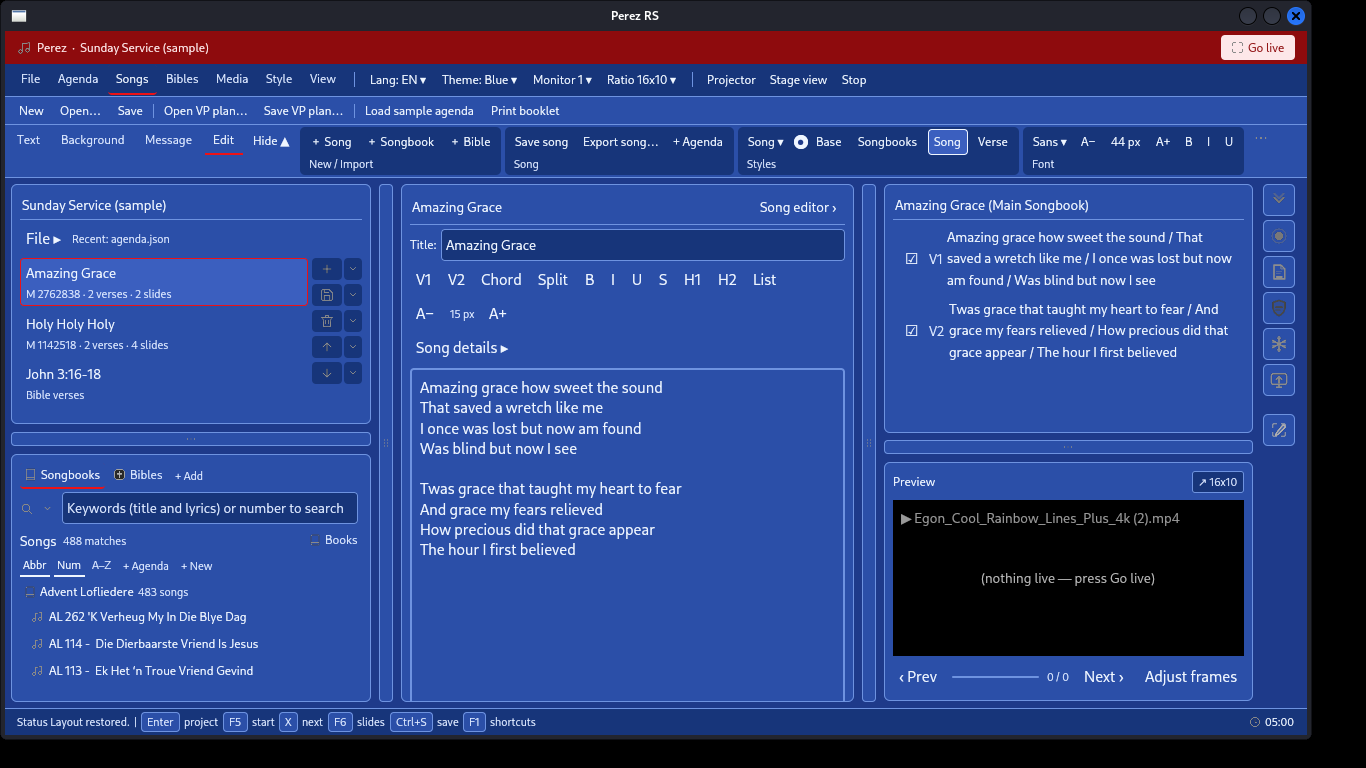
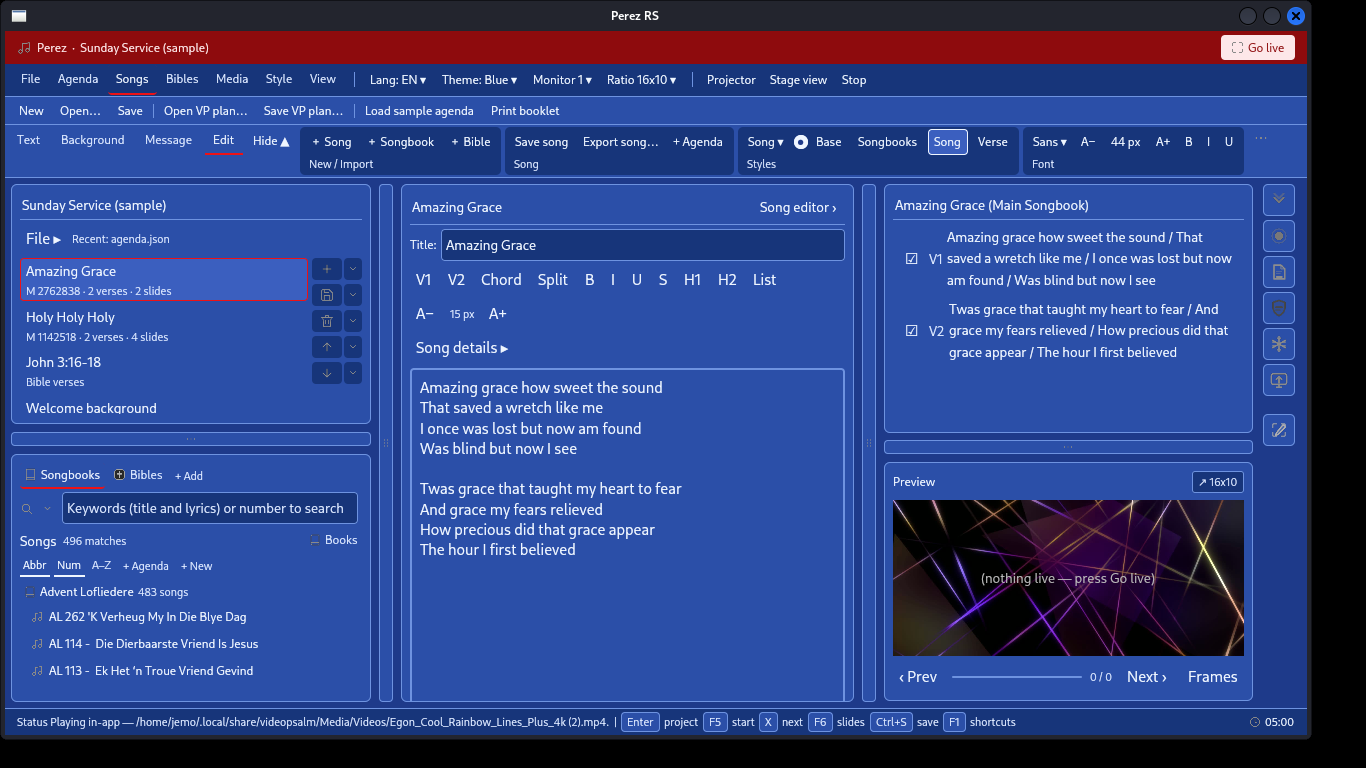
fix(gpui): Windows preview build — agenda, create flow, video preview
- agenda rows/file row tighter; seed website-demo sample so 'Website Demo'
  resolves instead of 'missing from library'
- create-song: resolve by id, guard stale index, clear query + scope to its
  book, select and scroll the new row into view; two regression tests
- boot opens the first library song so the editor starts on a document
- preview: start background video motion at boot/assign (not only on
  projection); raise pump to 1280px/24fps and JPEG q3; clip output body above
  the transport; 'Frames' label fits 1366
- fresh captures: 5 skins x 2 sizes + boot/new-song/website/empty/option states

tests: app 225 + vp-core 255 + misc 5 = 485 passed, zero warnings

Changed region(s): [[0.6457, 0.625, 0.9224, 0.9062], [0.0307, 0.9062, 0.7379, 0.9688], [0.0, 0.3438, 0.1537, 0.5625]]

diff --git a/gpui-app/app/src/main.rs b/gpui-app/app/src/main.rs
@@ -122,6 +122,7 @@ actions!(
 
 const SONG_A: &str = include_str!("../../assets/samples/songs/amazing-grace.json");
 const SONG_B: &str = include_str!("../../assets/samples/songs/holy-holy-chords.json");
+const SONG_WEB: &str = include_str!("../../assets/samples/songs/website-demo.json");
 const BIBLE_EN: &str = include_str!("../../assets/samples/bible/sample-bible-en.json");
 const BIBLE_FR: &str = include_str!("../../assets/samples/bible/sample-bible-fr.json");
 const AGENDA_SAMPLE: &str = include_str!("../../assets/samples/agenda/sample-agenda.json");
@@ -232,7 +233,7 @@ const ENGAGED: Rgba = Rgba {
 
 /// In-app video motion rate: silent piped stills/sec at 960px wide. The tick
 /// polls at the same cadence; higher reads smoother but republishes more.
-const MOTION_FPS: u32 = 8;
+const MOTION_FPS: u32 = 24;
 
 /// Signal red: selected agenda item + primary buttons (perez-sheet.html
 /// brand layer). Projection-surface blue cue is unchanged).
@@ -1122,7 +1123,7 @@ impl Root {
         locales.insert("en".to_string(), Locale::load("en", LOCALE_EN).unwrap());
         locales.insert("fr".to_string(), Locale::load("fr", LOCALE_FR).unwrap());
 
-        let songs: Vec<Song> = [SONG_A, SONG_B]
+        let songs: Vec<Song> = [SONG_A, SONG_B, SONG_WEB]
             .iter()
             .map(|s| serde_json::from_str(s).unwrap())
             .collect();
@@ -1795,6 +1796,19 @@ impl Root {
                 this.status = format!("{} — {note}", this.status);
             }
         }
+        // Default working song: open the first library song on boot so the
+        // operator starts from a document, not an empty editor. A persisted
+        // selection/agenda is respected; this only fills the blank state.
+        let q = this.search_field.read(cx).text();
+        this.refresh_search(&q, cx);
+        if this.sel_song.is_none() {
+            if let Some(idx) = this.results.first().copied() {
+                this.select_song(cx, idx);
+            }
+        }
+        // Preview/background motion starts with the window, not only after
+        // Go live: the operator must see the video before pressing anything.
+        this.start_preview_background(cx);
         this
     }
 
@@ -3312,6 +3326,25 @@ impl Root {
         was
     }
 
+    /// Start the assigned video-loop background for the CONTROL PREVIEW,
+    /// independent of projection. Before this, motion only started inside
+    /// `push_projection`, so the preview stayed a black tile until the
+    /// operator pressed Go live (the Windows report).
+    pub(crate) fn start_preview_background(&mut self, cx: &mut Context<Self>) {
+        if self.bg_kind != BackgroundKind::VideoLoop || self.live_item.is_some() {
+            return;
+        }
+        let Some(path) = self.bg_file.clone().filter(|p| p.exists()) else {
+            return;
+        };
+        self.ensure_video_poster(&path);
+        if !self.ensure_motion_for(cx, &path, true) {
+            // No decoder: the poster still stands, and projection will
+            // retry through its own path.
+            self.stop_motion();
+        }
+    }
+
     /// Play `path` in-app — ffmpeg pipe first (unchanged when it works),
     /// in-house H.264 decoder when ffmpeg is missing or fails. True =
     /// motion running (caller marks launched); false = caller falls back
@@ -4084,8 +4117,18 @@ fn window_covers_monitor(window: &gpui::Window) -> bool {
             );
             return;
         }
+        let Some(song) = self.songs.get(idx).cloned() else {
+            // Stale index after a list rebuild: fail quiet, never panic.
+            self.set_status(cx, "That song is no longer in the library.");
+            return;
+        };
         self.sel_song = Some(idx);
-        if let Some(song) = self.songs.get(idx).cloned() {
+        // Keep the selected row visible in the browser list (it can be below
+        // the fold when the list is long or the user just created it).
+        if let Some(pos) = self.results.iter().position(|&i| i == idx) {
+            self.scroll_songs.scroll_to_item(pos);
+        }
+        if let Some(song) = Some(song) {
             let doc = lyrics_doc::document_from_verses(&song.verses);
             self.lyrics_doc.update(cx, |d, cx| d.set_text(&doc, cx));
             self.sync_song_meta_fields(cx);
@@ -4617,16 +4660,33 @@ fn window_covers_monitor(window: &gpui::Window) -> bool {
             ..Default::default()
         };
         let title = song.title.clone();
+        let song_id = song.id.clone();
+        let book_scope = song.songbook_id.clone();
         if vp_core::library::upsert_song(&self.db, &song).is_err() {
             self.set_status(cx, "Could not save the new song.");
             return;
         }
         self.songs.push(song);
-        let idx = self.songs.len() - 1;
-        self.songbook_filter = None;
-        let q = self.search_field.read(cx).text();
-        self.refresh_search(&q, cx);
+        // Resolve by id, not `len - 1`: the library list can be reloaded or
+        // reordered between the push and the selection.
+        let Some(idx) = self.songs.iter().position(|s| s.id == song_id) else {
+            self.set_status(cx, "New song was saved but could not be selected.");
+            return;
+        };
+        // Make the new row visible: clear the query and scope the browser to
+        // its songbook (falling back to all songs if the scope is empty).
+        self.search_field
+            .update(cx, |field, cx| field.set_text("", cx));
+        self.songbook_filter = Some(book_scope);
+        self.refresh_search("", cx);
+        if !self.results.contains(&idx) {
+            self.songbook_filter = None;
+            self.refresh_search("", cx);
+        }
         self.select_song(cx, idx);
+        // A brand-new song is appended to the scoped list; scroll to the
+        // end so its selected row is on screen immediately.
+        self.scroll_songs.scroll_to_bottom();
         self.set_status(
             cx,
             format!("{title} created — type the lyrics, then project it."),
@@ -9880,7 +9940,6 @@ impl Root {
                     .flex_1()
                     .flex()
                     .flex_col()
-                    .gap(px(1.))
                     .child(
                         div()
                             .text_size(px(13.5))
@@ -9904,7 +9963,7 @@ impl Root {
                     .gap_1()
                     .items_center()
                     .px(px(5.))
-                    .py(px(3.))
+                    .py(px(1.))
                     .rounded(px(4.))
                     .border_1()
                     .border_color(if live {
@@ -10248,12 +10307,22 @@ impl Root {
         } else {
             Vec::new()
         };
+        // Keep the File row one line even with a long recents list: the
+        // agenda's height is worth more than the tail of a path.
+        let recents = {
+            let mut s: String = recents.chars().take(42).collect();
+            if s.chars().count() < recents.chars().count() {
+                s.push('…');
+            }
+            s
+        };
         let file_row = row_wrap(vec![
             file_disclosure,
             div()
                 .flex_1()
                 .min_w_0()
                 .overflow_hidden()
+                .whitespace_nowrap()
                 .text_size(px(11.))
                 .text_color(ui.muted)
                 .child(format!("Recent: {recents}")),
@@ -13598,6 +13667,9 @@ impl Root {
         self.bg_kind = BackgroundKind::Color;
         self.bg_website = None;
         self.bg_file = None;
+        if self.live_item.is_none() {
+            self.stop_motion();
+        }
         self.persist_layout_quiet();
         crate::presentation::publish(self, cx);
         self.set_status(cx, "Website background removed — plain color.");
@@ -14217,6 +14289,58 @@ fn main() {
 #[cfg(test)]
 mod tests {
     use super::*;
+
+    #[test]
+    fn bundled_samples_cover_every_song_referenced_by_the_sample_agenda() {
+        // Regression: "Website Demo" was in the sample agenda but not seeded
+        // at boot, so the row read "Song · missing from library".
+        let songs: Vec<Song> = [SONG_A, SONG_B, SONG_WEB]
+            .iter()
+            .map(|s| serde_json::from_str(s).expect("sample song parses"))
+            .collect();
+        let agenda = Agenda::from_json(AGENDA_SAMPLE).expect("sample agenda parses");
+        for item in &agenda.items {
+            if let ItemRef::Song { song_id } = &item.reference {
+                assert!(
+                    songs.iter().any(|s| &s.id == song_id),
+                    "agenda references {song_id} but no bundled sample provides it"
+                );
+            }
+        }
+    }
+
+    #[test]
+    fn new_song_payload_round_trips_through_the_editor() {
+        // The create path: empty verse -> document -> back to verses, then
+        // index resolution by id (never by `len - 1`). Guards the Windows
+        // "create crashed" report against a data/panic regression.
+        let song = Song {
+            id: "local:1".to_string(),
+            title: "New song".to_string(),
+            songbook_id: "local-book:my-songs".to_string(),
+            verses: vec![vp_core::schema::SongVerse {
+                id: "V1".to_string(),
+                lines: vec![String::new()],
+                order: 0,
+                ..Default::default()
+            }],
+            ..Default::default()
+        };
+        let doc = lyrics_doc::document_from_verses(&song.verses);
+        // A brand-new song opens an EMPTY document (placeholder visible);
+        // the first keystroke creates verse 1 with the existing id.
+        assert!(doc.is_empty());
+        let back = lyrics_doc::verses_from_document("Amazing grace", &song.verses);
+        assert_eq!(back.len(), 1);
+        assert_eq!(back[0].id, "V1");
+        let songs = vec![song];
+        let idx = songs
+            .iter()
+            .position(|s| s.id == "local:1")
+            .expect("new song must resolve by id");
+        assert_eq!(idx, 0);
+        assert!(songs.get(1).is_none(), "out-of-range guard stays quiet");
+    }
 
     #[test]
     fn chrome_type_scale_holds_only_the_four_agreed_steps() {

diff --git a/gpui-app/vp-core/src/media.rs b/gpui-app/vp-core/src/media.rs
@@ -338,7 +338,7 @@ pub fn poster_ffmpeg_args(path: &std::path::Path, out: &std::path::Path, seek_se
         "-frames:v".into(),
         "1".into(),
         "-q:v".into(),
-        "5".into(),
+        "3".into(),
         out.to_string_lossy().into_owned(),
     ]
 }
@@ -392,7 +392,7 @@ pub fn ensure_video_poster(path: &std::path::Path) -> Option<PathBuf> {
 }
 
 /// In-app video motion: `ffmpeg` decodes to an MJPEG pipe (`fps` filter,
-/// 960px wide, silent — the app owns all audio) and the tick reads one
+/// 1280px wide, silent — the app owns all audio) and the tick reads one
 /// frame per beat, shown through an uncached custom image loader. The pipe
 /// applies backpressure by itself: `ffmpeg` blocks when the 64KB buffer
 /// is full, so decode self-throttles to the display rate — no disk growth,
@@ -403,9 +403,9 @@ pub fn ensure_video_poster(path: &std::path::Path) -> Option<PathBuf> {
 /// No ffmpeg / bad file / failed spawn yields `Err` and callers fall back
 /// (poster still + OS player). Pure pieces (argv builder, JPEG split) are
 /// unit-tested; only `start` and `stop` touch processes.
-pub const MOTION_FPS_DEFAULT: u32 = 8;
+pub const MOTION_FPS_DEFAULT: u32 = 24;
 
-/// Safety cap for one MJPEG frame (960px stills are ~30–80KB).
+/// Safety cap for one MJPEG frame (1280px stills are ~60–160KB).
 const FRAME_MAX_BYTES: usize = 8 * 1024 * 1024;
 
 pub struct MotionPump {
@@ -440,7 +440,7 @@ pub fn motion_ffmpeg_args(
     args.push("-map".to_string());
     args.push("0:v".to_string());
     args.push("-vf".to_string());
-    args.push(format!("scale=960:-2,fps={}", fps.max(1)));
+    args.push(format!("scale=1280:-2,fps={}", fps.max(1)));
     args.push("-f".to_string());
     args.push("mjpeg".to_string());
     args.push("-q:v".to_string());
@@ -1081,7 +1081,7 @@ mod tests {
             assert!(args.contains(&need.to_string()), "missing {need}: {args:?}");
         }
         assert!(args.iter().any(|a| a.contains("fps=8")), "rate capped: {args:?}");
-        assert!(args.iter().any(|a| a.contains("scale=960")), "width capped: {args:?}");
+        assert!(args.iter().any(|a| a.contains("scale=1280")), "width capped: {args:?}");
         assert!(!args.iter().any(|a| a == "-stream_loop"), "standalone ends: {args:?}");
         assert!(!args.iter().any(|a| a == "-ss"), "no offset at 0: {args:?}");
         let looped = motion_ffmpeg_args(std::path::Path::new("/vids/Loop.mp4"), 8, true, 12.5);

diff --git a/gpui-app/app/src/preview_resize.rs b/gpui-app/app/src/preview_resize.rs
@@ -465,7 +465,11 @@ impl crate::Root {
                       _cx: &mut App| ghost.clone(),
             );
 
-        let mut body = body.relative();
+        // The output body must not bleed under the transport: the live
+        // background layer is absolute/size_full, and a flex column will let
+        // it paint past its slot without this clip (seen with a playing
+        // video background).
+        let mut body = body.relative().min_h_0().overflow_hidden();
         if frames_on {
             body = body
                 .on_drag_move::<FrameHandle>(cx.listener(|this, ev, _win, cx| {
@@ -542,10 +546,13 @@ impl crate::Root {
             .child(crate::btn(ui, cx, "Next ›", false, |this, _, _, cx| {
                 this.next_slide(cx);
             }))
-            .child(crate::btn(
+            // "Frames" not "Adjust frames": the label clipped on a 250px
+            // preview column at 1366, and the tooltip carries the full verb.
+            .child(crate::btn_tip(
                 ui,
                 cx,
-                if frames_on { "Done ▴" } else { "Adjust frames" },
+                if frames_on { "Done" } else { "Frames" },
+                "Adjust the preview frames (body / header / footer)",
                 frames_on,
                 |this, _, _, cx| {
                     this.frames_on = !this.frames_on;

diff --git a/out/hillclimb/beauty-r/NOTES.md b/out/hillclimb/beauty-r/NOTES.md
@@ -175,6 +175,34 @@ After: `after-light-1576.png`, `after-dark-1576.png`, `after-light-1366.png`.
   (icon + name + count); song rows are icon + title with 6px indent. The song
   list now starts roughly 100px higher and reads as the pane's content.
 
+## Windows preview build fixes (user test of e6dd39b)
+
+- **Agenda density + missing song.** Rows tightened (py1, title/meta gap 0),
+  the recents line is one-line and capped, File row stays compact. The sample
+  agenda's `Website Demo` referenced a bundled song that was never seeded;
+  `website-demo.json` is now a third boot sample (`upsert_song_if_absent`, so
+  existing libraries gain it too). Evidence: `state-website-demo.png` shows
+  "M · 2 verses · 4 slides", not "missing from library".
+- **Create New Song crash.** Could not reproduce on Linux (normal + clean
+  profile); hardened anyway: selection resolves by id, a stale index is a quiet
+  status instead of an index, and two regression tests cover the sample/agenda
+  contract and the empty-verse -> document -> verses round trip. If it recurs,
+  the Windows panic is written to `videopsalm-debug.log` next to the exe.
+- **Default + new song selection.** Boot opens the first library song (editor
+  and sidebar selected); `create_song` clears the query, scopes the browser to
+  the new song's book, resolves by id, selects it and scrolls to the bottom so
+  the highlighted row is visible. Evidence: `state-boot-video.png`,
+  `state-new-song.png`.
+- **Windows video preview.** Motion only started in `push_projection`, so the
+  preview stayed a black tile until Go live. `start_preview_background` now
+  starts the assigned video loop (poster + motion) at boot and on background
+  assign, independent of projection. Pump quality raised from 960px/8fps to
+  1280px/24fps (vp-core `MotionPump`; shared with the Electron target) and JPEG
+  quality 5 -> 3. Preview body is clipped above the transport so frames no
+  longer paint under Prev/Next.
+- Preview transport label shortened to `Frames` so it fits a 250px column at
+  1366 (was "Adjust fram").
+
 ## Verification
 
 - `cargo test --workspace`: app **223** + vp-core 255 + misc 5 = **483 passed,
